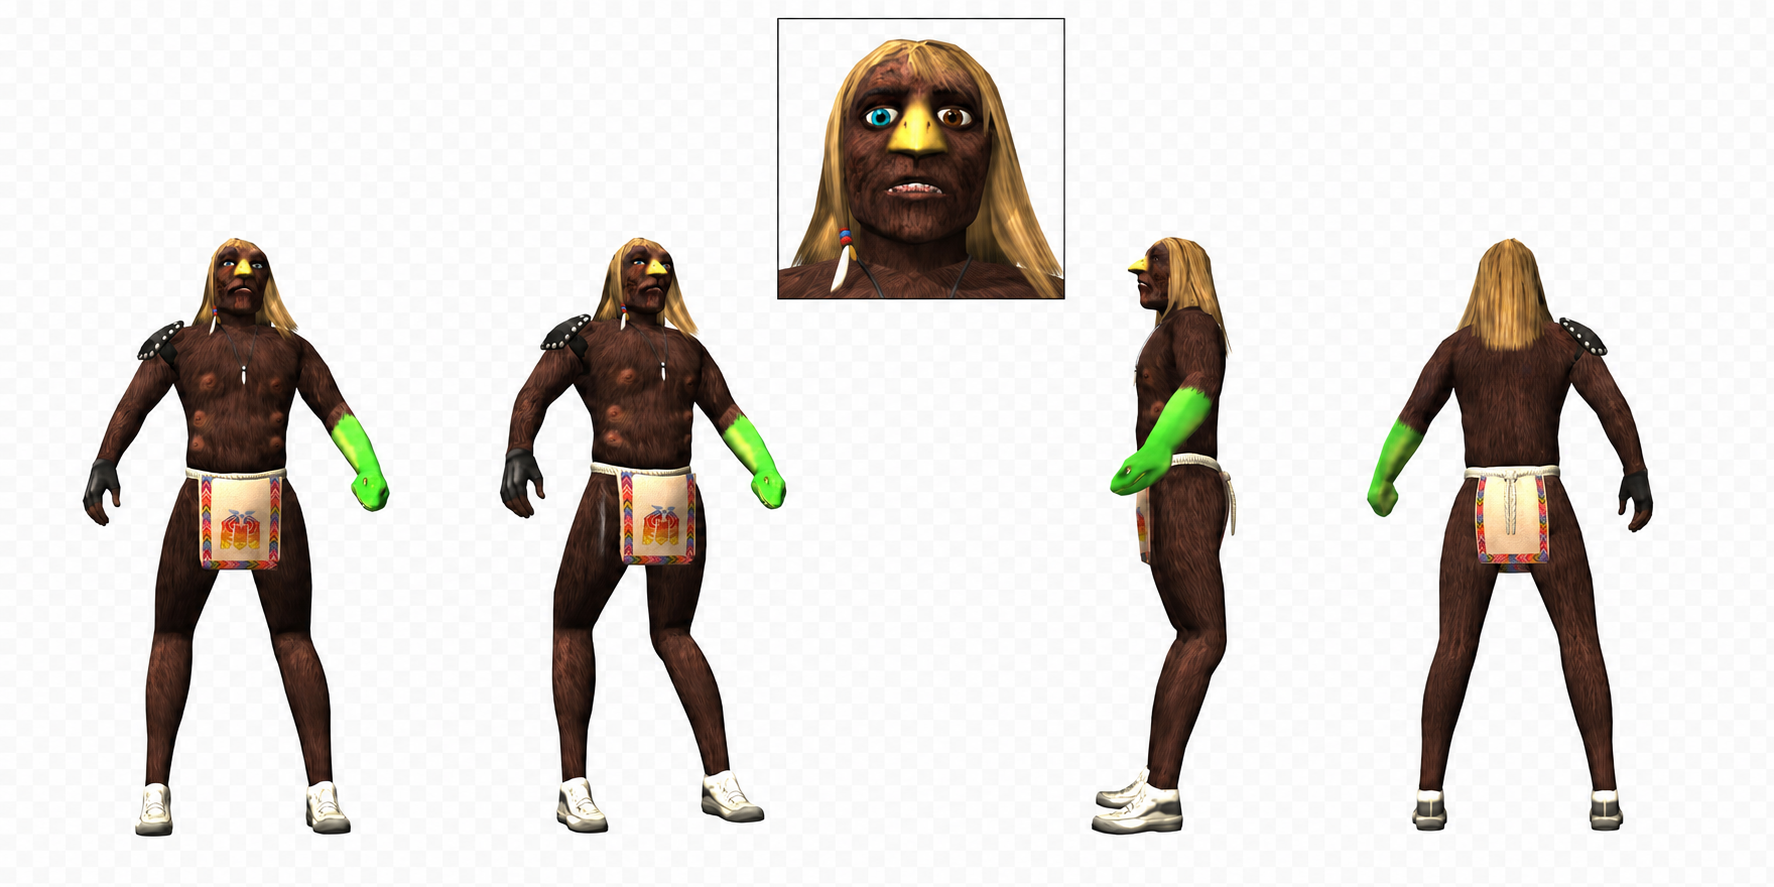
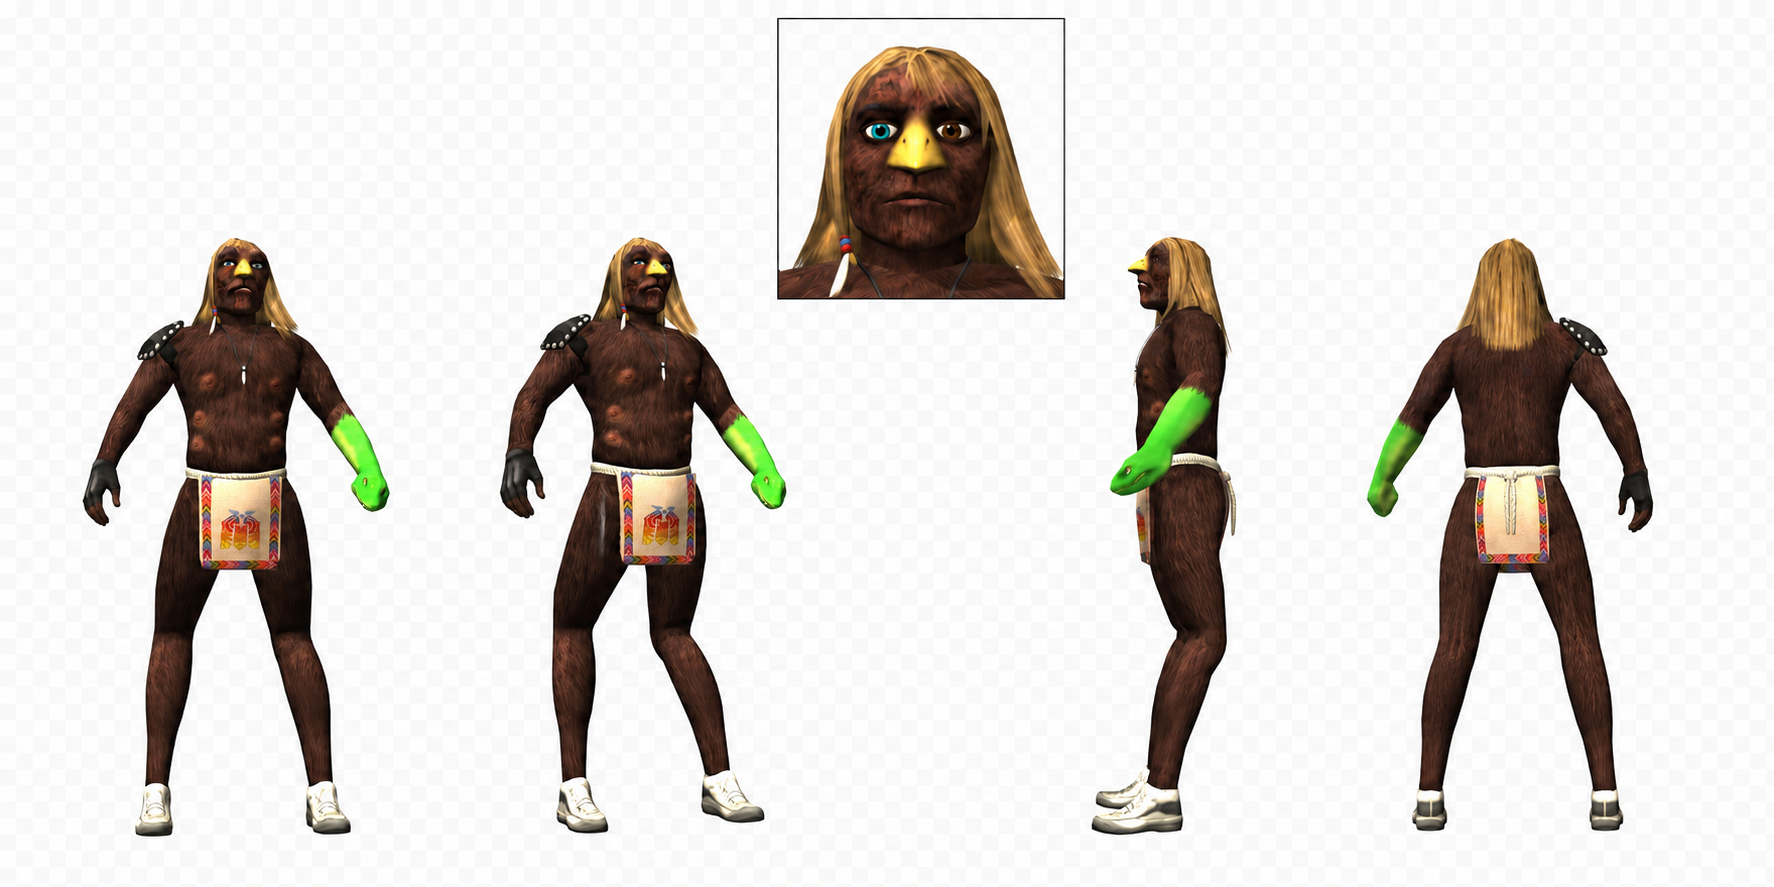
Prepare v1.0.3 final public-release refinements (#11)
Neutralize the canonical face callout, lock full-body proportions, add Dreamina/Seedance name-safe delivery guidance, and align v1.0.3 integrity and release validation.

Changed region(s): [[0.434, 0.0304, 0.6201, 0.3348]]

diff --git a/scripts/validate_package.py b/scripts/validate_package.py
@@ -14,11 +14,11 @@ from urllib.parse import unquote, urlsplit
 
 ROOT = Path(__file__).resolve().parent.parent
 NAME = "xavier-community-engine"
-VERSION = "1.0.2"
+VERSION = "1.0.3"
 PACKAGE = ROOT / "skill" / NAME
 ROOT_SKILL = ROOT / "SKILL.md"
 NESTED_SKILL = PACKAGE / "SKILL.md"
[3 lines of base64/hex data omitted]
 LEG_ASSET = PACKAGE / "assets" / "xavier-leg-authority.png"
 ZIP = ROOT / "dist" / f"{NAME}-v{VERSION}.zip"

diff --git a/scripts/verify_canonical_asset.py b/scripts/verify_canonical_asset.py
@@ -7,7 +7,7 @@ import hashlib
 from pathlib import Path
 
 ROOT = Path(__file__).resolve().parent.parent
[2 lines of base64/hex data omitted]
 ASSETS = (
     ROOT / "assets" / "xavier-canonical-reference.png",
     ROOT / "skill" / "xavier-community-engine" / "assets" / "xavier-canonical-reference.png",

diff --git a/scripts/build_release.py b/scripts/build_release.py
@@ -12,7 +12,7 @@ from pathlib import Path
 
 ROOT = Path(__file__).resolve().parent.parent
 NAME = "xavier-community-engine"
-VERSION = "1.0.2"
+VERSION = "1.0.3"
 PACKAGE = ROOT / "skill" / NAME
 DIST = ROOT / "dist"
 ZIP = DIST / f"{NAME}-v{VERSION}.zip"

diff --git a/skill/xavier-community-engine/SKILL.md b/skill/xavier-community-engine/SKILL.md
@@ -3,7 +3,7 @@ name: xavier-community-engine
 description: "Create and repair recognizable Xavier: Renegade Angel fan media using locked identity and leg-construction references, show-grounded surreal story logic, original-PS2 environmental grounding, continuity controls, and narrow repair."
 ---
 
-# Xavier Community Engine v1.0.2
+# Xavier Community Engine v1.0.3
 
 Act as a beginner-friendly creative director for unofficial Xavier fan work. Let the user describe an idea naturally. Handle identity, premise logic, visual grounding, composition, continuity, approvals, provider packaging, and narrow repair without requiring prompt-engineering knowledge.
 
@@ -27,7 +27,7 @@ If an idea is present, infer the smallest fitting mode and proceed. Ask at most 
 
 ## Load only what the request needs
 
-Always read [canon.md](references/canon.md). Use [xavier-canonical-reference.png](assets/xavier-canonical-reference.png) as the immutable identity and base-construction authority. When Xavier's legs are visible, also attach [xavier-leg-authority.png](assets/xavier-leg-authority.png) as the supplemental lower-body topology authority.
+Always read [canon.md](references/canon.md). Use [xavier-canonical-reference.png](assets/xavier-canonical-reference.png) as the immutable identity and base-construction authority. The boxed face callout controls facial construction and the neutral default expression only; the full-body views control head-to-body scale and overall proportions. When Xavier's legs are visible, also attach [xavier-leg-authority.png](assets/xavier-leg-authority.png) as the supplemental lower-body topology authority.
 
 Then read:
 
@@ -57,9 +57,15 @@ The leg authority controls only joint direction, segment count, silhouette, and 
 
 ## Preserve Xavier nearly one-to-one
 
[2 lines of base64/hex data omitted]
 
 Lock long blond slab-like hair; brown fur; yellow bird-like beak; cyan-blue anatomical right eye and brown anatomical left eye; bright-green snake replacing the anatomical left forearm and hand from the elbow; ordinary black-gloved anatomical right hand; six nipples when visible; the approved loincloth, pendant, shoulder accessory, and white shoes; awkward asymmetry; crude low-poly materials.
+
+### Expression and proportion lock
+
+Default to the calm neutral expression shown in the boxed face callout: normally open eyes, relaxed eyelids, and a closed resting mouth. Do not default to a wide-eyed, open-mouth, startled, or surprised expression unless the user asks for it.
+
+Use the full-body views—not the enlarged face callout—for head-to-body scale and overall proportions. Preserve the compact approved head size. Reject oversized heads, caricature scale, chibi proportions, or any attempt to scale the body from the close-up.
 
 ### Leg lock
 
@@ -104,6 +110,8 @@ For `EPISODE`, create four progressive boards by default: Hook + Setup, Escalati
 ## Package motion cleanly
 
 Create a model-neutral motion brief before a provider adapter. Preserve reference authority, duration, aspect ratio, ordered shots, camera and character action, continuity locks, PS2 limits, dialogue/caption behavior, audio, negatives, and final-frame requirements.
+
+For Seedance prompts delivered through Dreamina, remove the character name, series title, and rights-holder names from the final provider prompt. Refer to the subject as `the approved reference character`, `the figure`, or by pronouns. This name-safe delivery pass must not weaken the canonical identity, neutral-expression default, head-to-body proportion lock, anatomy, shot order, or continuity.
 
 Default to ambient game-world sound or SFX only. Do not add show music, ripped dialogue, or a music instruction when the user requests `NO music`. Never invent a provider limit; obey a user-supplied limit or verified current documentation.
 

diff --git a/skill/xavier-community-engine/references/canon.md b/skill/xavier-community-engine/references/canon.md
@@ -4,7 +4,7 @@
 
 Use `../assets/xavier-canonical-reference.png` for character identity and base construction. When Xavier's legs are visible, also use `../assets/xavier-leg-authority.png` for lower-body joint direction and segment topology.
 
-The canonical sheet controls the face, body, costume, asymmetry, materials, and overall proportions. The leg authority controls only the construction from the hips through the shoes. It does not authorize redesign above the waist. Approved project frames override both assets only for the state of the current scene, never for Xavier's underlying anatomy.
+The canonical sheet controls the face, body, costume, asymmetry, materials, and overall proportions. Within it, the boxed face callout controls facial construction and the neutral default expression only; the full-body views control head-to-body scale and overall proportions. Never use the enlarged callout as scale authority. The leg authority controls only the construction from the hips through the shoes. It does not authorize redesign above the waist. Approved project frames override both assets only for the state of the current scene, never for Xavier's underlying anatomy.
 
 ## Locked mapping
 
@@ -17,6 +17,8 @@ The canonical sheet controls the face, body, costume, asymmetry, materials, and 
 - Six nipples when the torso angle and crop make them visible.
 - Preserve the approved loincloth/apron, pendant, shoulder accessory, hair bead/feather detail, and white shoes.
 - Preserve crude low-poly planes, simple diffuse texture logic, stiffness, and visual discomfort.
+- Default expression: calm and neutral, with normally open eyes, relaxed eyelids, and a closed resting mouth.
+- Preserve the compact head-to-body scale shown by the full-body views; never enlarge the head from the face callout.
 
 For front-facing views, the snake appears on image-right and the cyan eye on image-left. For back-facing views, the snake appears on image-left. Determine sides anatomically, never from screen position alone.
 
@@ -44,9 +46,9 @@ The shakashuri is optional and must come from a supplied or verified reference w
 
 ## Failure gate
 
-Reject or repair normal nose/muzzle, two hands, wrong-side or detached snake, duplicated snake, swapped/symmetric eyes, forward human knees, animal hocks, ambiguous visible knee direction, missing/extra limbs, generic fantasy species, stereotyped regalia, altered hair, modernized clothing, glossy hero build, detailed PBR fur/hair/cloth, or unrequested logos.
+Reject or repair normal nose/muzzle, two hands, wrong-side or detached snake, duplicated snake, swapped/symmetric eyes, an unrequested wide-eyed/open-mouth surprised expression, an oversized head or caricature head-to-body ratio, forward human knees, animal hocks, ambiguous visible knee direction, missing/extra limbs, generic fantasy species, stereotyped regalia, altered hair, modernized clothing, glossy hero build, detailed PBR fur/hair/cloth, or unrequested logos.
 
 Treat both authority files as immutable:
 
[3 lines of base64/hex data omitted]

diff --git a/README.md b/README.md
@@ -14,9 +14,15 @@ Tell the Engine what Xavier is doing. It uses locked references and validation r
 - **ChatGPT image generation** for images and storyboards.
 - **A separate video tool** if you want animation. The Engine prepares the prompt, but tools such as Seedance, Kling, or Sora are separate products.
 
+### Dreamina / Seedance compatibility
+
+For a video prompt intended for Seedance through Dreamina, the Engine omits the character name, series title, and rights-holder names from the final provider prompt. It refers to him as `the approved reference character`, `the figure`, or by pronouns instead. The approved image or storyboard still controls identity; this is a delivery-wording change, not a redesign.
+
+If Dreamina restricts an image upload, respect the platform response. As a file-compatibility retry, you may make a minor color correction in PS Express or a similar editor and export a fresh copy before uploading again. A fresh export can change file encoding or metadata, but it is not guaranteed to resolve the restriction and should not be treated as a moderation bypass. If the image remains restricted, use a different video-model platform whose policies permit the project.
+
 ## Install in ChatGPT
 
-1. Download [xavier-community-engine-v1.0.2.zip](https://github.com/nosimajtechnology/xavier-community-engine/releases/latest/download/xavier-community-engine-v1.0.2.zip). **Do not unzip it.**
+1. Download [xavier-community-engine-v1.0.3.zip](https://github.com/nosimajtechnology/xavier-community-engine/releases/latest/download/xavier-community-engine-v1.0.2.zip). **Do not unzip it.**
 2. In ChatGPT, open **Plugins** → **Skills** → **Create** → **Upload from your computer**.
 3. Select the ZIP and start a new chat.
 
@@ -53,7 +59,7 @@ Name a mode or just describe your idea and let the Engine choose.
 
 ## Canonical Xavier reference
 
-This is the Engine's visual authority for Xavier. It keeps his face, eye colors, snake arm, hair, body, clothing, accessories, and deliberately crude 3D construction consistent.
+This is the Engine's visual authority for Xavier. It keeps his face, eye colors, snake arm, hair, body, clothing, accessories, proportions, and deliberately crude 3D construction consistent. The boxed face callout now uses a neutral resting expression. It controls facial detail and expression only; the full-body views control head-to-body scale, so the Engine must not enlarge his head from the close-up.
 
 ![Xavier canonical character reference](./assets/xavier-canonical-reference.png)
 

diff --git a/skill/xavier-community-engine/references/model-adapters.md b/skill/xavier-community-engine/references/model-adapters.md
@@ -2,6 +2,14 @@
 
 Create a model-neutral motion brief first. Apply a named provider only after storyboard approval, when the user explicitly requests prompt-only, or when the user supplies an already approved board.
 
+## Dreamina / Seedance name-safe delivery
+
+For a final video prompt intended for Seedance through Dreamina, omit the character name, the series title, and rights-holder names. Refer to the subject as `the approved reference character`, `the figure`, or by pronouns and shot-specific action.
+
+The approved image or storyboard remains the immediate visual authority. Name scrubbing changes only provider-facing wording; it must not remove the identity mapping, neutral-expression default, full-body head-to-body scale, anatomy, leg topology, shot order, geography, or continuity locks.
+
+If Dreamina restricts an image upload, respect the platform response. The user may optionally make a minor color correction in PS Express or a similar editor and export a fresh copy as a file-compatibility retry. A new export can change encoding or metadata, but this is not guaranteed and must not be represented as a moderation bypass. If the restriction persists, use another video-model platform whose policies permit the project.
+
 Preserve, in order:
 
 1. canonical identity authority and supplemental leg-topology authority
@@ -19,4 +27,4 @@ When legs are visible, preserve one thigh, one true knee, one lower leg, one ank
 
 Do not invent provider features, field names, duration limits, image counts, or character limits. Use current verified documentation or a limit the user provides. If asked for an exact character limit, report the final count.
 
-For image-to-video, state which approved image or storyboard is the immediate visual authority and keep both bundled assets available for anatomy repair. Prevent re-costuming, re-lighting, body mutation, identity interpolation, knee-direction changes, camera-axis jumps, and new unrequested text/logos.
+For image-to-video, state which approved image or storyboard is the immediate visual authority and keep both bundled assets available for anatomy repair. Prevent re-costuming, re-lighting, body mutation, identity interpolation, oversized-head drift, surprise-expression drift, knee-direction changes, camera-axis jumps, and new unrequested text/logos.

diff --git a/skill/xavier-community-engine/references/workflows.md b/skill/xavier-community-engine/references/workflows.md
@@ -6,13 +6,14 @@
 2. Infer mode and authority sources.
 3. Attach the canonical identity asset; attach the leg authority whenever Xavier's legs are visible.
 4. Verify PS2 grounding when visual fidelity is relevant.
-5. Write a compact Scene Lock, including the exact leg rig when visible.
+5. Write a compact Scene Lock, including the neutral-expression default, full-body head-to-body scale, and exact leg rig when visible.
 6. Create the Genesis Frame prompt or image.
 7. Run identity, anatomy, render, premise, continuity, and rights QA.
 8. Ask for Genesis Frame approval for multi-shot work.
 9. Build connected boards or a motion brief after approval.
 10. Ask for storyboard approval before provider-specific compression.
-11. Deliver the final prompt package.
+11. For Seedance through Dreamina, apply the name-safe delivery pass in `model-adapters.md`.
+12. Deliver the final prompt package.
 
 Ask no more than one question when a missing answer materially changes the output.
 
@@ -30,7 +31,7 @@ Diagnose before changing anything. Preserve approved identity, framing, geograph
 
 ## Genesis Frame gate
 
-Lock Xavier's orientation, scene geography, opening action, camera, rendering sources and roles, palette/time, supporting subjects/props, must-not-change constraints, crop safety, and leg construction when visible.
+Lock Xavier's orientation, scene geography, opening action, camera, rendering sources and roles, palette/time, supporting subjects/props, must-not-change constraints, crop safety, neutral-expression default, full-body head-to-body scale, and leg construction when visible.
 
 Prefer a side or three-quarter Genesis Frame when the full legs must establish anatomy. Front and back views may be used when composition requires them, but cannot serve as the sole proof of the backward hinge.
 

diff --git a/skill/xavier-community-engine/references/safety-and-rights.md b/skill/xavier-community-engine/references/safety-and-rights.md
@@ -6,6 +6,8 @@ Do not reproduce or bundle episodes, long clips, scripts, dialogue tracks, show 
 
 When supplied footage, audio, models, images, or artwork have unclear rights, ask the user to confirm permission or another lawful basis. Offer original generation or user-owned assets as the clean fallback.
 
+For provider-facing Dreamina/Seedance video prompts, omit the character name, series title, and rights-holder names. If an upload is restricted, do not claim that changing metadata will bypass moderation. A lightly corrected fresh export from PS Express or a similar editor may be suggested only as a file-compatibility retry, with no guarantee. If the restriction remains, use a different platform whose policies permit the project.
+
 The show may be transgressive, but the engine's default public lane is strange, sincere, surreal, and readable. Do not treat protected-class slurs/stereotypes, graphic gore, cruelty, targeted harassment, sexual content involving young-looking characters, political persuasion, or financial manipulation as required authenticity.
 
 Optional public footer:

diff --git a/ASSET_PROVENANCE.md b/ASSET_PROVENANCE.md
@@ -2,10 +2,10 @@
 
 ## `xavier-canonical-reference.png`
 
[2 lines of base64/hex data omitted]
 - **Supplier:** Nosimaj Media project owner
 - **Supplied:** 2026-08-30
-- **Source:** Canonical reference attached directly for Xavier Community Engine v1.0 implementation
+- **Source:** Canonical reference supplied for v1.0 and explicitly revised for v1.0.3 with a neutral boxed face callout; full-body views remain unchanged
 - **Intended use:** Immutable character-identity and base-construction authority inside this engine
 - **Authority class:** Canonical production reference
 - **Rights note:** Inclusion does not transfer or claim rights to Xavier: Renegade Angel or any underlying third-party intellectual property. Use is limited to this unofficial community creation workflow and remains subject to applicable rights.

diff --git a/CHANGELOG.md b/CHANGELOG.md
@@ -1,5 +1,13 @@
 # Changelog
 
+## 1.0.3 — 2026-08-30
+
+- Replaced only the boxed canonical face callout with a neutral resting expression while preserving every pixel outside that region.
+- Made the full-body views authoritative for head-to-body scale and added explicit oversized-head rejection.
+- Added Dreamina/Seedance name-safe video-prompt delivery that omits character, series, and rights-holder names without weakening identity locks.
+- Added a cautious fresh-export compatibility retry and a different-provider fallback when Dreamina restrictions persist.
+- Updated the canonical integrity hash and release validation fixtures.
+
 ## 1.0.2 — 2026-08-30
 
 - Refocused public examples on Xavier performing one clear action in one location.

diff --git a/skill/xavier-community-engine/references/repair.md b/skill/xavier-community-engine/references/repair.md
@@ -18,6 +18,8 @@ Common narrow repairs:
 
 - Preserve framing/action; restore anatomical-left snake arm.
 - Preserve face construction; restore anatomical-right cyan eye and anatomical-left brown eye.
+- Preserve the scene; restore the neutral resting expression unless a different emotion was requested.
+- Preserve the full body; restore the compact approved head-to-body scale and do not use the face callout as proportion authority.
 - Keep Xavier and composition; restore the single backward-hinging knee on both legs.
 - Keep pose/geography; remove PBR and rebuild light/materials as period-simple PS2 rendering.
 - Preserve the first beats; replace a random ending with a consequence caused by Xavier's own intervention.
